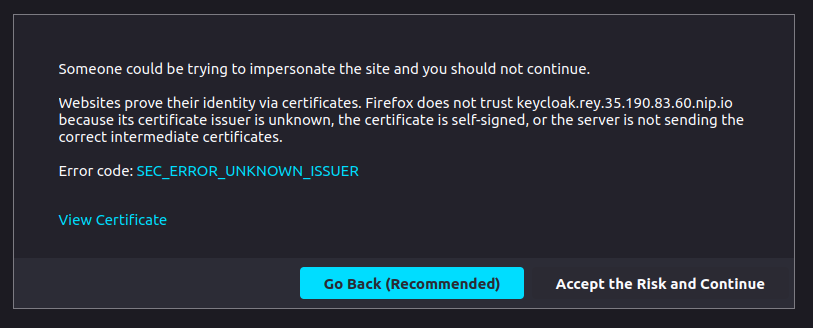
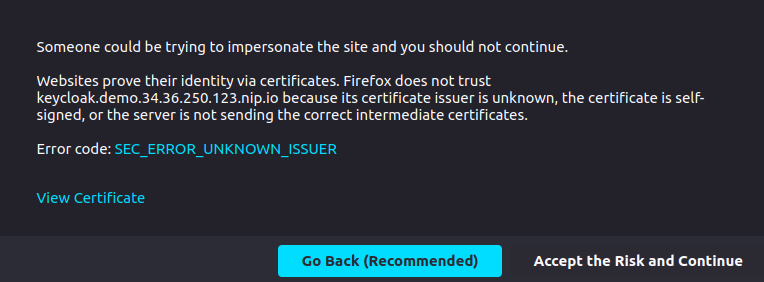
updates after revisions

diff --git a/_source/_posts/2023-01-23-keycloak-kubernetes-prod.md b/_source/_posts/2023-01-23-keycloak-kubernetes-prod.md
@@ -235,6 +235,14 @@ gcloud container clusters create jhipster-cluster \
 
 **Note**: you can choose a different zone and machine type.
 
+Then fetch the cluster credentials with:
+
+```shell
+gcloud container clusters get-credentials jhipster-cluster --zone southamerica-east1-a
+```
+
+`get-credentials` will update a `kubeconfig` file with appropriate credentials and endpoint information to point `kubectl` at a specific cluster in Google Kubernetes Engine.
+
 Install [cert-manager](https://cert-manager.io/docs/tutorials/getting-started-with-cert-manager-on-google-kubernetes-engine-using-lets-encrypt-for-ingress-ssl/) in your cluster:
 
 ```shell
@@ -272,7 +280,7 @@ Events:
 Also, the ingress service will be updated once the certificate is available. You can check the ingress events with the following command:
 
 ```shell
-kubectl get ingress gateway -n demo
+kubectl describe ingress gateway -n demo
 ```
 
 The output should contain the message "certs updated":
@@ -282,9 +290,9 @@ Events:
   Type     Reason             Age                   From                       Message
   ----     ------             ----                  ----                       -------
 ...
-  Normal   Sync               5m24s (x9 over 11m)   loadbalancer-controller    Scheduled for sync
-  Normal   Sync               5m10s (x2 over 8m4s)  loadbalancer-controller    UrlMap "k8s2-um-syujj5e4-rey-gateway-f99qha5q" updated
-  Normal   Sync               4m58s                 loadbalancer-controller    TargetProxy "k8s2-ts-syujj5e4-rey-gateway-f99qha5q" certs updated
+  Normal   Sync               78s (x2 over 4m33s)  loadbalancer-controller    UrlMap "k8s2-um-ag6evarw-demo-gateway-gijhgcnp" updated
+  Normal   Sync               66s (x9 over 9m6s)   loadbalancer-controller    Scheduled for sync
+  Normal   Sync               25s                  loadbalancer-controller    TargetProxy "k8s2-ts-ag6evarw-demo-gateway-gijhgcnp" certs updated
 ```
 Once the cluster is healthy, you can test the deployment by navigating to **http://gateway.\<namespace\>.\<public-ip\>.nip.io** :
 
